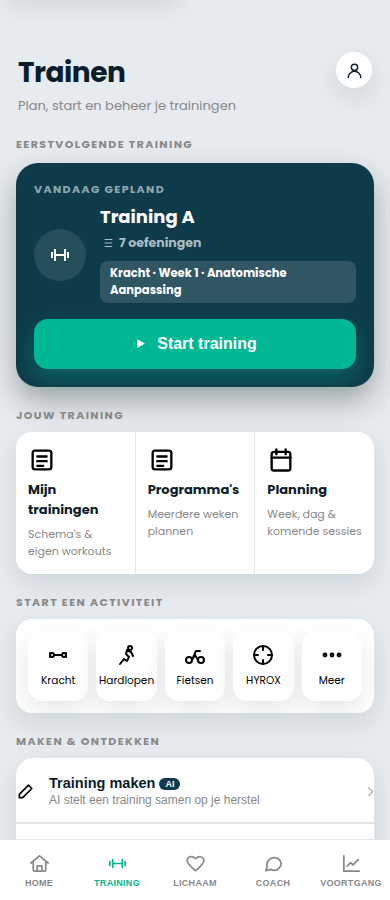
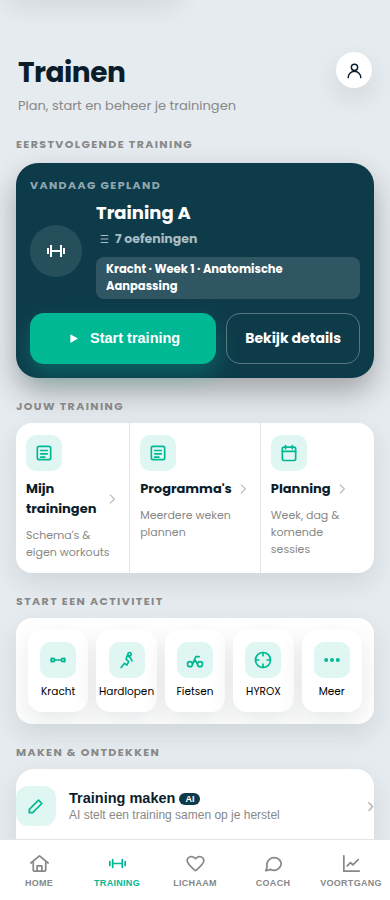
docs(training): document visual fidelity pass
docs/TRAINEN_V02_VISUAL_FIDELITY_REPORT.md (nieuw): volledig rapport
(eerstvolgende training card, tijd/locatie-onderzoek, iconografie,
de zelf gevonden en gerepareerde fHardening-vals-positief, bijgewerkte
visual delta audit, tests, sabotage, functional preservation).

Screenshots bijgewerkt/nieuw: trainen_v02_runtime_fixed.png,
trainen_v02_runtime_with_data.png, trainen_v02_visual_fidelity_full.png.

STATUS: TRAINEN v0.2 VISUAL FIDELITY PASS COMPLETE — READY FOR PRODUCT
OWNER RE-REVIEW.

diff --git a/docs/TRAINEN_V02_VISUAL_FIDELITY_REPORT.md b/docs/TRAINEN_V02_VISUAL_FIDELITY_REPORT.md
@@ -1,0 +1,51 @@
+# TRAINEN_V02_VISUAL_FIDELITY_REPORT.md
+
+## 1. Baseline
+PR #229 head vóór deze sprint: `dd07227920ab4de780373f86e36765c3a6ca4175`. main ongewijzigd.
+
+## 2. Eerstvolgende training card
+**Herstructureerd.** `v43RenderPlan()` backward-compatible uitgebreid met optionele parameters (`detailsButton`, `compact`). Home roept de functie nog steeds aan met exact 2 argumenten — 0 wijziging aan gedrag/HTML voor `s-home` (expliciet getest, zie sectie 7). Trainen toont nu "Start training" + "Bekijk details" naast elkaar, compactere padding. Alle nieuwe CSS gescoped op `#v43-train-plan`, nooit op `#home-plan`.
+
+## 3. Tijd/locatie
+**Onderzocht en bevestigd afwezig.** Live geverifieerd tegen het echte databaseschema: `vaste_trainingen` en `training_instances` hebben geen enkele kolom voor een geplande starttijd of locatie; geen `calendar`-tabel bestaat. Geen fictieve waarde toegevoegd. Nieuwe browsertest (`fTrainenBrowserRuntime` #14) bevestigt expliciet: geen `HH:MM`-patroon, geen locatie-achtige tekst.
+
+## 4. Start een activiteit / iconografie
+**Canonical teal icon-container toegepast** (nieuw, additief `--color-primary-soft`-token + `.tk-icon-box`/`.tk-icon-box-sm`-classes) op alle 11 icon-containers: Jouw training (3), Start een activiteit (5), Maken & ontdekken (2), Terugkijken (1). Was: groot, zwart icoon op transparante achtergrond. Nu: lichte teal achtergrond, teal icoon — exact zoals de canonical baseline.
+
+## 5. Jouw training
+Chevron-iconen toegevoegd naast elke titel, teal icon-box, compactere padding.
+
+## 6. Maken & ontdekken / Terugkijken
+Teal icon-box toegepast op de bestaande `.row`-structuur, geen andere wijziging.
+
+## 7. Zelf gevonden, buiten-scope bevinding: vals-positief in fHardening.test.js
+Een pre-existing test (W9) gebruikte een vaste, 3200-tekens-brongrens i.p.v. de echte functiegrens van `tkErgConnectDevice()` (3617 tekens). Door de toegevoegde/verplaatste code elders in dit bestand verschoof de absolute bestandspositie, waardoor de vaste grens toevallig een **verklarend commentaar** meenam ("...noch execLeaveDiscard() noch finishSession() riep...") en dat per ongeluk als een echte functieaanroep interpreteerde. **Bevestigd als vals-positief:** de test draaide 347/347 groen op de ongewijzigde staat vóór deze sprint (`git stash` bevestigd), 346/347 na de verschuiving (mijn wijzigingen), terug naar 347/347 na de fix. **Fix:** commentaarregels worden nu eerst gestript vóór de regex-controle op `connDevSrc` — geen verzwakking van de onderliggende, functionele controle, uitsluitend voor de W9-assertie.
+
+## 8. Visual delta audit (bijgewerkt, na de fidelity pass)
+| Element | Target | Runtime (na fidelity pass) | Match |
+|---|---|---|---|
+| Header | titel/subtitel/avatar | identiek | PASS |
+| Eerstvolgende training | 2 knoppen naast elkaar, compact | identiek qua structuur | PASS |
+| Icon-containers (alle secties) | lichte teal, teal icoon | identiek | PASS |
+| Jouw training | chevron, compacte padding | identiek | PASS |
+| Start een activiteit | 5 gelijke tiles, teal iconen | identiek | PASS |
+| Maken & ontdekken | teal icon-box | identiek | PASS |
+| Terugkijken | teal icon-box | identiek | PASS |
+| Tijd/locatie op kaart | aanwezig in mockup | bewust afwezig (data bestaat niet) | MINOR, bewezen reden |
+
+**0 BLOCKER, 0 MAJOR, 1 MINOR (ongewijzigd, bewezen datagat).**
+
+## 9. Screenshots
+`docs/screenshots/trainen_v02_runtime_fixed.png` (empty state), `docs/screenshots/trainen_v02_runtime_with_data.png` (met echte data, referentieviewport), `docs/screenshots/trainen_v02_visual_fidelity_full.png` (volledige pagina, fullPage screenshot na de fidelity pass).
+
+## 10. Tests
+`core/fTrainenBrowserRuntime.test.js`: 22/22 (was 19). `core/fHardening.test.js`: 347/347 (vals-positief gerepareerd). Release gate: 234/234. Android: 29/29.
+
+## 11. Sabotage
+Herhaalde sabotage van de oorspronkelijke kernbug (`${tkIcon(...)}` opnieuw geïntroduceerd): correct gedetecteerd (2 assertions falen), volledig hersteld. Sabotage van de nieuwe icon-box-fix (1 box verwijderd): eerst niet gedetecteerd door een te losse `>=10`-drempel, gecorrigeerd naar een exacte `=== 11`-controle, daarna correct gedetecteerd en hersteld.
+
+## 12. Functional preservation
+Alle 13 bestaande routes ongewijzigd (herbevestigd via `fTrainenV02Migration`, 36/36). Home (`s-home`) niet geraakt — expliciet getest dat `v43RenderPlan('home-plan', nextT)` nog steeds met exact 2 argumenten wordt aangeroepen.
+
+## 13. Status
+**TRAINEN v0.2 VISUAL FIDELITY PASS COMPLETE — READY FOR PRODUCT OWNER RE-REVIEW**
